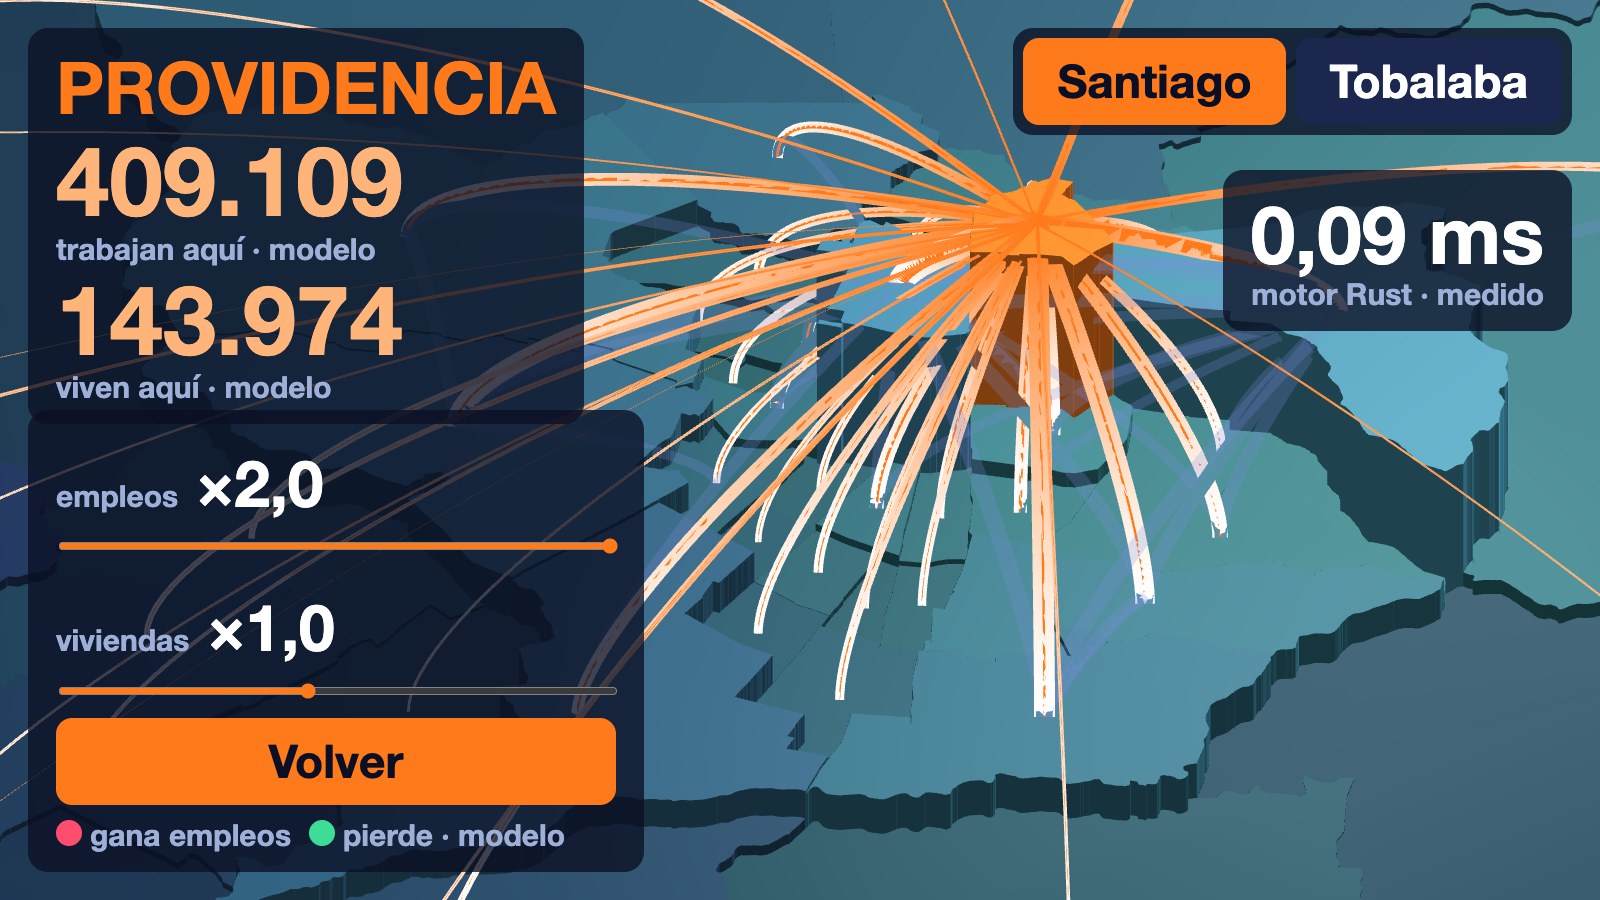
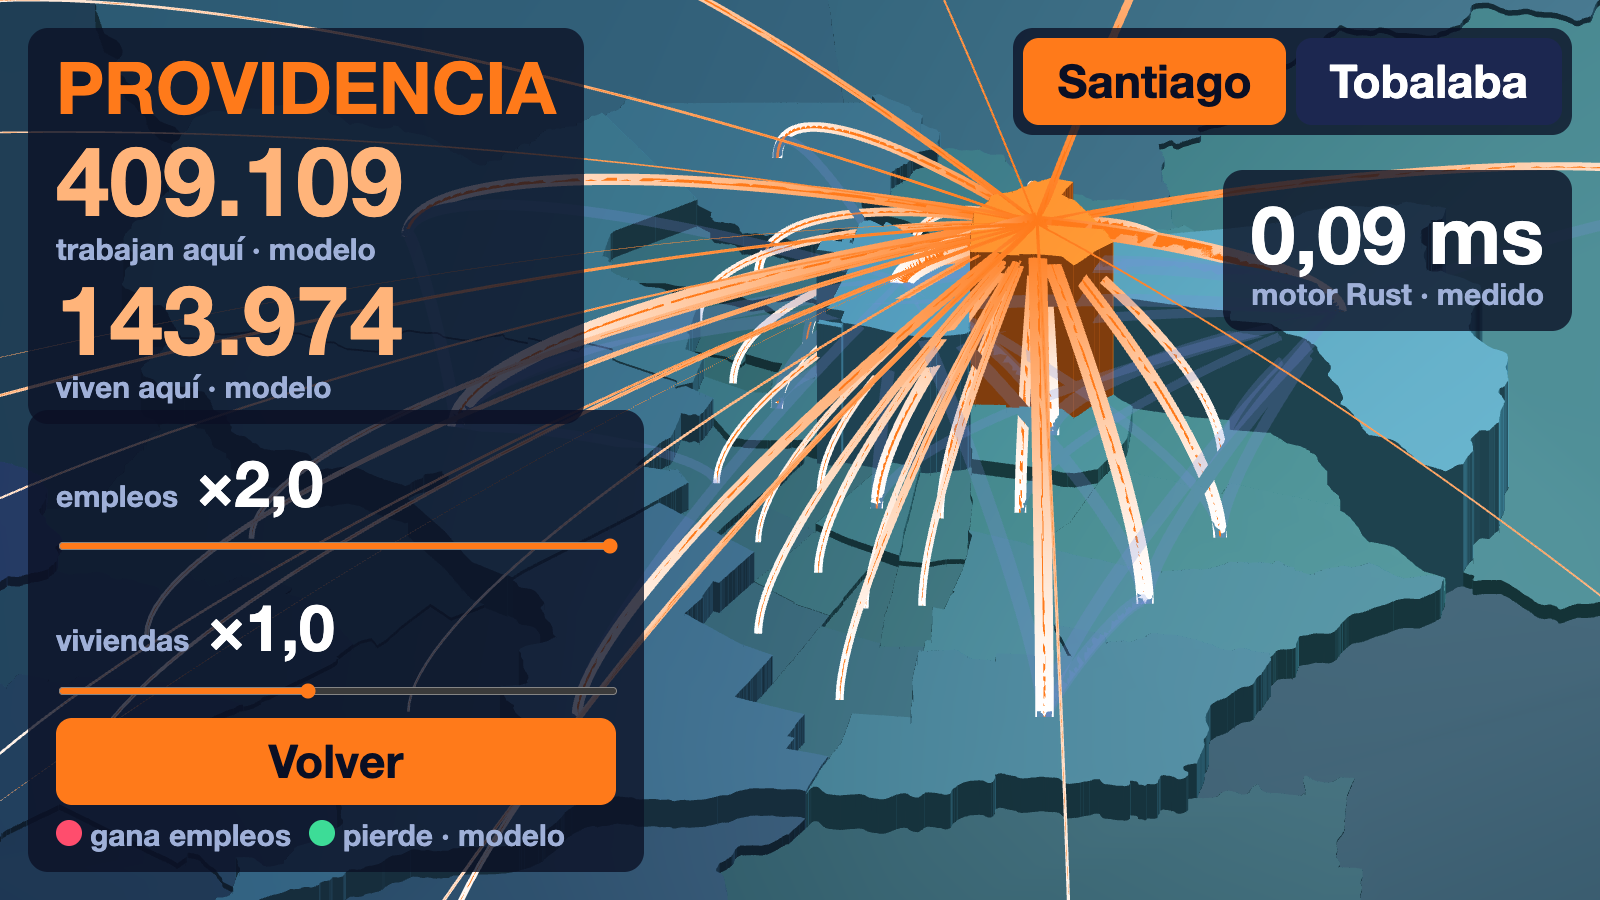
Scene v2.2 (start-up guard, site scenario); stops.py on March GTFS; buildings rebuild steps; README wording

diff --git a/web/index.html b/web/index.html
@@ -39,8 +39,8 @@
   <button id="go">Sacar el MUT</button>
   <div class="val"><span id="n">298</span> <small>viviendas · supuesto</small></div>
   <input id="slider" type="range" min="0" max="1500" step="2" value="298">
-  <small>MUT: 4.679 empleos · modelo</small>
-  <small>ocupación y uso de Metro · supuesto</small>
+  <small>MUT · Las Condes · 4.679 empleos</small>
+  <small>modelo · asistencia y Metro: supuesto</small>
   <small id="legend"><i style="background:#00e5ff;margin-left:0"></i>observado<i style="background:#fff"></i>base<i style="background:#ff7a1a"></i>escenario</small>
 </div>
 
@@ -112,8 +112,8 @@ function siteScenario() {
     jobs_removed: P(4679, u, 'the scenario removes all assumed baseline jobs'),
     dwellings_added: P(homes, u, 'slider on the page'),
     parameters: {
-      occupied_share: P(0.9, u, 'not measured MUT occupancy'),
-      persons_per_occupied_dwelling: P(2.1, u, 'not measured Las Condes or MUT occupancy'),
+      occupied_share: P(0.9251, 'observed_aggregate', 'Las Condes apartment blocks, data/mvp/site_inputs.csv, Census 2024; its use for the tower is an assumption'),
+      persons_per_occupied_dwelling: P(2.0847, 'observed_aggregate', 'Las Condes apartment blocks, data/mvp/site_inputs.csv, Census 2024; its use for the tower is an assumption'),
       known_commuters_per_resident: P(104980 / 296134, 'observed_aggregate', 'Las Condes RM-to-RM commuters / residents, Census 2024; its use for new households is an assumption'),
       attendance_home: P(0.8, u, 'not measured daily attendance'),
       attendance_work: P(0.8, u, 'not measured MUT attendance'),
@@ -139,7 +139,6 @@ function tobalaba() {
   const cols = (id, key, dx, color, r = 18) => new ColumnLayer({id, data: [0].filter(() => at(site[key], t) != null),
     getPosition: [tob.lon + dx, tob.lat], diskResolution: 20, radius: r, getElevation: () => height(at(site[key], t)),
     getFillColor: color, material: {ambient: .9, diffuse: .3}, updateTriggers: {getElevation: t}});
-  const zone = id => world && world.zones.find(z => z.id == id);
   return [
     new GeoJsonLayer({id: 'ground', data: ground, stroked: false,
       getFillColor: [26, 74, 62], getLineColor: f => /river|canal/.test(f.properties.kind) ? [40, 110, 200] : f.properties.major ? [70, 84, 130] : [38, 48, 86],
@@ -160,12 +159,9 @@ function tobalaba() {
     site && cols('scenario', 'scenario', 0.001, [255, 122, 26], 24),
     new TextLayer({id: 'names', data: stops.filter(s => s.name), getPosition: s => [s.lon, s.lat, height(at(s.observed, t) || 0)], getPixelOffset: [0, -34],
       getText: s => s.name, getSize: 36, fontFamily: 'Helvetica, Arial, sans-serif', fontWeight: 800, getColor: [0, 229, 255], updateTriggers: {getPosition: t}}),
-    new TextLayer({id: 'label', data: [0], characterSet: 'auto', fontFamily: 'Helvetica, Arial, sans-serif', getPosition: [...MUT, active ? homes * 0.15 : 65], getPixelOffset: [0, -60], getText: () => active ? 'TORRE · supuesto' : 'MUT · Las Condes',
+    new TextLayer({id: 'label', data: [0], characterSet: 'auto', fontFamily: 'Helvetica, Arial, sans-serif', getPosition: [...MUT, 70], getPixelOffset: [70, -30], getTextAnchor: 'start', getText: () => active ? 'TORRE' : 'MUT',
       getSize: 44, fontWeight: 800, getColor: [255, 255, 255], background: true, getBackgroundColor: active ? [10, 15, 36] : [255, 122, 26],
-      backgroundPadding: [14, 8], updateTriggers: {getPosition: [active, homes], getText: active, getBackgroundColor: active}}),
-    site && world && new ArcLayer({id: 'siteflows', data: site.flows.filter(f => zone(f.destination_cut)), getSourcePosition: MUT,
-      getTargetPosition: f => [zone(f.destination_cut).longitude, zone(f.destination_cut).latitude],
-      getWidth: f => 2 + Math.sqrt(f.scenario_commuters), getSourceColor: [255, 255, 255], getTargetColor: [255, 122, 26]}),
+      backgroundPadding: [14, 8], updateTriggers: {getText: active, getBackgroundColor: active}}),
   ];
 }
 
@@ -190,7 +186,7 @@ function santiago() {
   }
   return [
     new GeoJsonLayer({id: 'communes', data: communes, extruded: !!sim, pickable: true,
-      getElevation: f => zs[f.properties.cut].jobs * KZ, getLineColor: [150, 170, 255],
+      getElevation: f => sim ? zs[f.properties.cut].jobs * KZ : 0, getLineColor: [150, 170, 255],
       getFillColor: f => {
         const c = f.properties.cut;
         if (c == sel || !sim) return [255, 122, 26, c == sel ? 255 : 0];
@@ -204,11 +200,11 @@ function santiago() {
     // modeled work flows: the selected comuna in full, the rest only when large
     sim && new ArcLayer({id: 'flows', data: sim.flows.filter(f => f.origin != f.destination && (f.origin == sel || f.destination == sel || f.workers > 6000)),
       getSourcePosition: f => pos(f.origin), getTargetPosition: f => pos(f.destination),
-      getWidth: f => Math.sqrt(f.workers) / 8, getHeight: .25,
+      getWidth: f => Math.sqrt(f.workers) / 8 * (1 + .3 * Math.sin(t * 6)), getHeight: .25,  // the pulse is motion only, not travel time
       getSourceColor: f => f.destination == sel ? [255, 255, 255] : f.origin == sel ? [255, 122, 26] : [120, 140, 220, 60],
       getTargetColor: f => f.destination == sel || f.origin == sel ? [255, 122, 26] : [120, 140, 220, 60],
-      updateTriggers: {getSourcePosition: sim, getTargetPosition: sim, getSourceColor: sel, getTargetColor: sel},
-      transitions: {getWidth: 600, getSourcePosition: 600, getTargetPosition: 600}}),
+      updateTriggers: {getWidth: t, getSourcePosition: sim, getTargetPosition: sim, getSourceColor: sel, getTargetColor: sel},
+      transitions: {getSourcePosition: 600, getTargetPosition: 600}}),
   ];
 }
 
@@ -229,7 +225,7 @@ function draw() {
 }
 
 function tick() {
-  if (playing && view == 't') { t += 1 / 50; if (t >= LAST) t = FIRST; draw(); }  // about 0.85 s for each half hour
+  if (playing) { t += 1 / 50; if (t >= LAST) t = FIRST; draw(); }  // about 0.85 s for each half hour
   requestAnimationFrame(tick);
 }
 

diff --git a/web/stops.py b/web/stops.py
@@ -2,8 +2,7 @@
 
 DTPM April 2026, LABORAL day, mean per half hour. Bus stops join by exact stop_id.
 A half hour with no row is null, not zero. Metro stations are NOT here: the page reads
-the three reviewed files (PR #29). Copy them from main until this branch has them:
-  for s in tobalaba los_leones el_golf; do git show origin/main:data/mvp/${s}_observations.json > web/data/${s}_observations.json; done
+the three reviewed files data/mvp/*_observations.json (PR #29).
 Run from the repo root: python3 web/stops.py
 """
 import csv, io, json, math, re, zipfile
@@ -11,7 +10,7 @@ import csv, io, json, math, re, zipfile
 MUT = (-70.6009, -33.4180)
 RADIUS_M = 1000
 XLSX = "data/raw/dtpm/subidas_2026_04.xlsx"
-GTFS = "data/raw/verify-transport-metro/gtfs_20261114.zip"
+GTFS = "data/raw/dtpm-gtfs-march/GTFS_20260321_v3.zip"
 
 near = {}
 for r in csv.DictReader(io.TextIOWrapper(zipfile.ZipFile(GTFS).open("stops.txt"), "utf-8-sig")):

diff --git a/data/mvp/README.md b/data/mvp/README.md
@@ -172,6 +172,8 @@ over the person file and caches the tallies, then the join runs in 2 s).
 | `occupied_share_apartment_blocks` | `n_vp_ocupada / n_vp` over that same subset. Use it together with the column above, so the chain stays closed inside the subset | observed, subset |
 | `car_share_block_table`, `public_share_block_table` | `n_transporte_auto` and `n_transporte_publico` over the 7 travel columns of the comuna | observed |
 | `car_share_apartment_blocks`, `public_share_apartment_blocks` | the same two shares over the apartment-block subset | observed, subset |
+| `travellers_per_dwelling_ratio_apartment_blocks` | (travellers / `n_vp`) of the subset ÷ the same of the comuna. Multiply the comuna chain by this to get the subset value, instead of mixing two universes | observed, subset |
+| `car_travellers_per_dwelling_ratio_apartment_blocks` | the same ratio for `n_transporte_auto` alone | observed, subset |
 | `apartment_blocks`, `apartment_block_persons` | size of that subset | |
 | `dwellings_with_residents_present` | dwellings with at least one person record | observed |
 | `persons_all_dwelling_kinds` | `n_per`: private **plus** collective dwellings and the street operative | observed |
@@ -192,17 +194,40 @@ over the person file and caches the tallies, then the join runs in 2 s).
 - **How a tower resident travels, measured.** In Las Condes the apartment blocks use
   the car less than the comuna: `car_share_apartment_blocks` **0.4684** against
   `car_share_block_table` **0.5192**, and public transport **0.3219** against 0.3077.
-  Walking rises from 9.2% to 12.0%. So a new tower sends about 10% fewer people by car
-  than the comuna average, relative. In Providencia the gap is small (0.3371 against
+  Walking rises from 9.2% to 12.0%. In Providencia the gap is small (0.3371 against
   0.3469), and in Santiago the subset is almost the whole comuna (0.1286 both).
+- **Do not build a chain out of one column of the subset and one of the comuna.** A
+  flat holds fewer persons but its persons travel more: in Las Condes the subset has
+  0.8384 travellers for each dwelling against 0.9208 in the comuna, and 0.4347
+  travellers for each person against 0.4009. Scale the comuna chain by the two ratio
+  columns instead. Las Condes, 298 dwellings: the comuna chain gives 242.5 commuters
+  and 123.8 of them travel by car; × 0.9105 and × 0.8213 gives **220.8 commuters and
+  101.7 travelling by car**. Call the result "ratio-adjusted, block-table subset".
+- Limit of the subset: most Las Condes flat blocks are on the Apoquindo and Metro
+  corridor, so part of the lower car share comes from the place, not from the dwelling
+  type. For a tower 122 m from Tobalaba that bias points the right way, but it is a
+  bias.
 - **The 4 travel columns are a wider universe than `mode_share.csv` and the two must not
   be mixed.** The block table counts every person with a `p45` answer: 3,068,499 in the
-  RM, against 2,740,454 in `mode_share.csv`. The extra people work at home, work in
-  another country, or have no fixed place of work (`p44_lug_trab` 1, 4 and 5). That is
+  RM, against 2,740,454 in `mode_share.csv`. **Measured decomposition** of the
+  3,068,579 RM persons whose `p45` answer is 1 to 7: 2,740,156 are the commuters of
+  `mode_share.csv` without its 298 `-99` answers, 313,258 have no fixed place of work
+  (`p44_lug_trab` 5), 11,376 answered 2 or 3 but gave a comuna the matrix cannot use,
+  and 3,789 work in another country (code 4). The remaining 80 against the 3,068,499 of
+  the block table are the suppressed cells. **A person who works at home is not in this
+  universe**: `p45` is `NA` for `p44_lug_trab` 1, so its 517,018 people are out. That
+  is
   why the comuna car share here is 0.5192 and `mode_share.csv` gives 0.5107 for the
   same comuna. Use `mode_share.csv` for a commuter count, and these 4 columns only to
   compare a block subset against its comuna on one basis. 45 cells of the 7 travel
   columns are suppressed in the RM and count as 0.
+- **No released file joins the two.** A mode share for the commuter cohort below the
+  comuna does not exist: `mode_share.csv` has the correct cohort but stops at the
+  comuna, because the finest geography of the person microdata is comuna × urban/rural;
+  the block table has the block but a wider cohort, and INE publishes no cross-tab of
+  `p45` by `p44`. So **any apartment-block refinement of a commuter mode share is a
+  transfer assumption**, never a measured commuter count. Label it that way, or keep
+  the comuna share of `mode_share.csv`.
 - The two pairs do not give the same residents for each dwelling built: the comuna pair
   gives 0.9405 × 2.4185 = 2.2746 and the apartment-block pair gives
   0.9251 × 2.0847 = 1.9286, which is 15% lower. Always use a pair, never one column of
@@ -426,8 +451,10 @@ uv run --with overturemaps overturemaps download --bbox=-70.635,-33.445,-70.565,
   -f geojson --type=building -o data/raw/overture_buildings/tobalaba.geojson
 uv run --with overturemaps overturemaps download --bbox=-70.635,-33.445,-70.565,-33.395 \
   -f geojson --type=building_part -o data/raw/overture_buildings/tobalaba_parts.geojson
+mkdir -p data/raw/exposure_santiago
 curl -L -o data/raw/exposure_santiago/exposure_santiago.zip \
   https://github.com/aleaicv/ExposureModels/releases/download/santiago_chile_ch_2025/exposure_santiago.zip
 unzip -d data/raw/exposure_santiago data/raw/exposure_santiago/exposure_santiago.zip
+python3 -I tools/scrape/ine_permits.py   # writes data/raw/ine_permits/rm_permits.json
 python3 tools/pack/buildings.py
 ```
